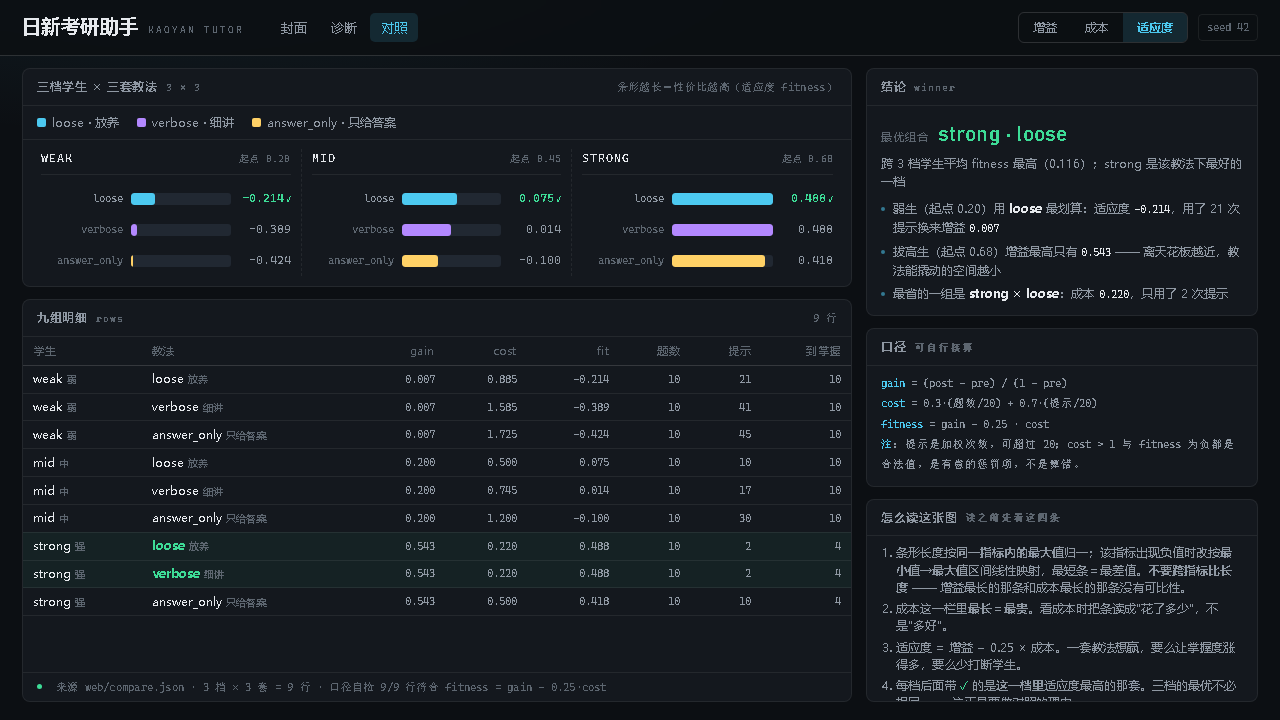
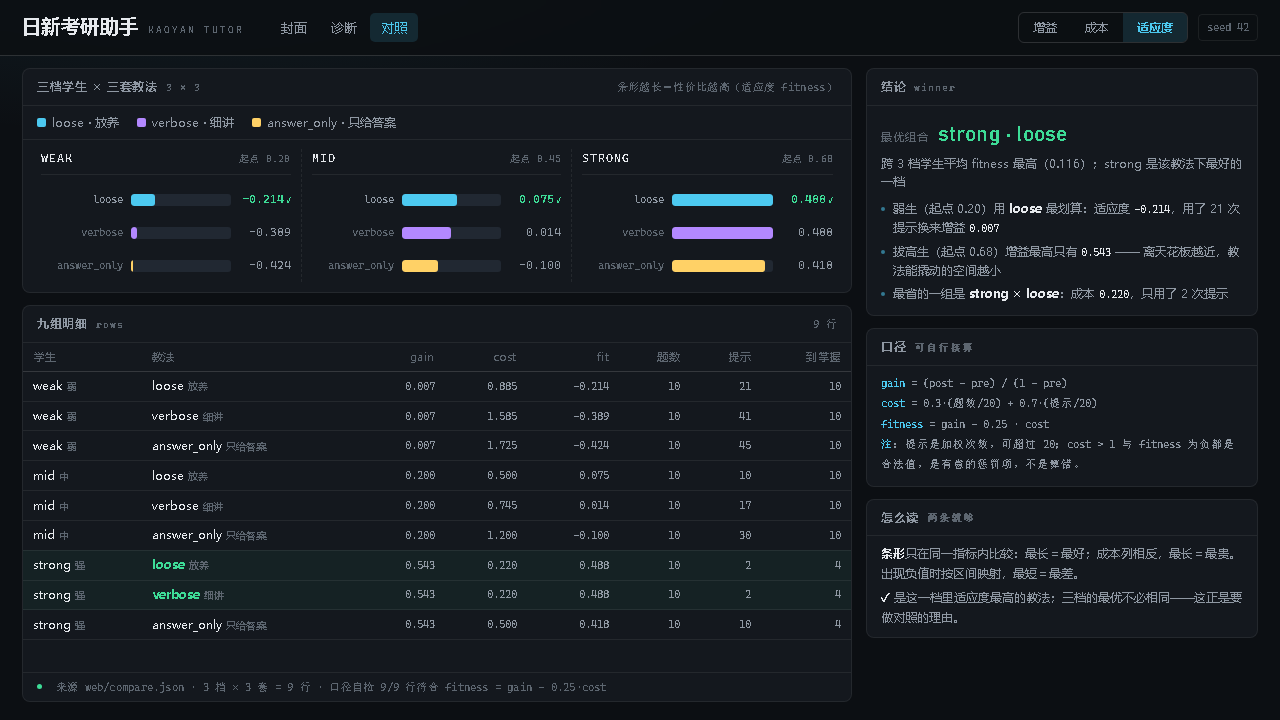
feat(tutor): 大屏适配与信息简化（对照页读图改两条、表格撑满、修日期折行）+ 交互说明｜验收：node docs/demo/check_browser.js --shots

diff --git a/web/compare.html b/web/compare.html
@@ -94,7 +94,7 @@
     margin-left:auto;letter-spacing:.02em}
 
   .row{display:grid;grid-template-columns:82px minmax(0,1fr) 52px;align-items:center;
-    gap:8px;height:31px}
+    gap:8px;height:33px}
   .row .lb{font-family:var(--font-mono);font-size:11px;color:var(--faint);
     text-align:right;white-space:nowrap;overflow:hidden;text-overflow:ellipsis}
   .row.win .lb{color:var(--muted)}
@@ -118,10 +118,13 @@
   .ins li::before{content:"";position:absolute;left:0;top:7px;width:4px;height:4px;
     border-radius:50%;background:var(--accent);opacity:.55}
   .ins b{color:var(--text);font-weight:600}
-  .ins .mono{font-family:var(--font-mono);font-size:11px;color:var(--text)}
+  .ins .mono{font-family:var(--font-mono);font-size:11px;color:var(--text);white-space:nowrap}
 
   /* ── 口径 / 读图 ── */
   .prose{padding:8px 14px 10px;font-size:12px;color:var(--muted);line-height:1.6}
+  .read2{font-size:11.5px;line-height:1.7;color:var(--muted)}
+  .read2 + .read2{margin-top:5px}
+  .read2 b{color:var(--text);font-weight:600}
   .formula{font-family:var(--font-mono);font-size:11px;color:var(--muted);line-height:1.85}
   .formula b{color:var(--accent);font-weight:400}
   .prose ol{margin:0;padding-left:15px;font-size:11.5px;line-height:1.5}
@@ -144,7 +147,7 @@
     font-weight:500;color:var(--faint);font-size:10.5px;letter-spacing:.05em;
     padding:6px 10px;border-bottom:1px solid var(--line-strong);white-space:nowrap}
   thead th:first-child,thead th:nth-child(2){text-align:left}
-  tbody td{padding:4.5px 10px;text-align:right;font-family:var(--font-mono);font-size:11px;
+  tbody td{padding:5.5px 10px;text-align:right;font-family:var(--font-mono);font-size:11px;
     color:var(--muted);border-bottom:1px solid var(--line);
     font-variant-numeric:tabular-nums;white-space:nowrap}
   tbody td:first-child,tbody td:nth-child(2){text-align:left;font-family:var(--font-body);
@@ -153,6 +156,29 @@
   tbody tr.win-row td:nth-child(2){color:var(--good);font-weight:600}
   tbody td.bad{color:var(--bad)}
   tbody td .cn{color:var(--faint);font-size:10px;margin-left:4px}
+
+  /* 投影/大屏：放大字号；明细表在面板里垂直居中，别让下方空出一大块 */
+  @media (min-width:1600px){
+    body{font-size:15px}
+    main{grid-template-columns:minmax(0,1fr) 460px;gap:18px;padding:16px 28px 22px}
+    .panel > h2{font-size:13px}
+    .legend{font-size:12.5px}
+    .sgrp-h .nm{font-size:13.5px}
+    .row{height:40px;grid-template-columns:100px minmax(0,1fr) 64px}
+    .row .lb{font-size:12.5px}
+    .row .vl{font-size:13px}
+    table{font-size:12.5px}
+    thead th{font-size:11.5px;padding:8px 12px}
+    tbody td{padding:8px 12px;font-size:12.5px}
+    tbody tr{height:58px}
+    tbody td:first-child,tbody td:nth-child(2){font-size:13px}
+    tbody td .cn{font-size:10.5px}
+    .win-name{font-size:25px}
+    .win-why,.ins li{font-size:13px}
+    .ins .mono{font-size:12px}
+    .formula{font-size:12px}
+    .read2{font-size:12.5px}
+  }
 </style>
 </head>
 <body>
@@ -235,15 +261,15 @@
       </div>
     </div>
 
-    <div class="panel" style="flex:1 1 auto">
-      <h2>怎么读这张图 <em>读之前先看这四条</em></h2>
+    <div class="panel" style="flex:0 0 auto">
+      <h2>怎么读 <em>两条就够</em></h2>
       <div class="prose">
-        <ol>
-          <li>条形长度按<b>同一指标内的最大值</b>归一；该指标出现负值时改按<b>最小值→最大值</b>区间线性映射，最短条＝最差值。<b>不要跨指标比长度</b> —— 增益最长的那条和成本最长的那条没有可比性。</li>
-          <li>成本这一栏里<b>最长＝最贵</b>。看成本时把条读成"花了多少"，不是"多好"。</li>
-          <li>适应度 = 增益 − 0.25 × 成本。一套教法想赢，要么让掌握度涨得多，要么少打断学生。</li>
-          <li>每档后面带 <span style="color:var(--good)">✓</span> 的是<b>这一档里</b>适应度最高的那套。三档的最优不必相同 —— 这正是要做对照的理由。</li>
-        </ol>
+        <div class="read2">
+          <b>条形</b>只在同一指标内比较：最长＝最好；成本列相反，最长＝最贵。出现负值时按区间映射，最短＝最差。
+        </div>
+        <div class="read2">
+          <b>✓</b> 是这一档里适应度最高的教法；三档的最优不必相同——这正是要做对照的理由。
+        </div>
       </div>
     </div>
   </section>

diff --git a/web/tutor.html b/web/tutor.html
@@ -101,7 +101,7 @@
     cursor:pointer;transition:.18s var(--ease)}
   .tutor .bubble:hover{border-left-color:#7ee0ff;background:var(--surface-3)}
   .tutor .bubble.on{border-left-color:var(--accent);box-shadow:0 0 0 1px rgba(76,201,240,.22) inset}
-  .stmt{font-size:14.5px;line-height:1.7;margin:0}
+  .stmt{font-size:15px;line-height:1.7;margin:0}
   .fmt{font-family:var(--font-mono);font-size:11px;color:var(--faint);margin-top:7px}
   .hintline{margin-top:9px;padding-top:9px;border-top:1px dashed var(--line);
     font-size:13px;color:#c9d4e0;display:flex;gap:8px}
@@ -129,18 +129,18 @@
   .why-grid{display:grid;grid-template-columns:auto 1fr;gap:7px 12px;align-items:baseline}
   .why-grid dt{font-family:var(--font-mono);font-size:10.5px;color:var(--faint);
     letter-spacing:.05em;white-space:nowrap}
-  .why-grid dd{margin:0;font-size:12.5px}
+  .why-grid dd{margin:0;font-size:13px}
   .why-grid dd .num{font-family:var(--font-mono);font-weight:600;color:var(--accent)}
   .memchips{display:flex;flex-wrap:wrap;gap:5px;margin-top:3px}
   .memchips span{font-family:var(--font-mono);font-size:10px;color:var(--muted);
     background:var(--surface-3);border-radius:3px;padding:2px 6px}
 
   /* ── 记忆 / 复习 ── */
-  .mem{border-left:2px solid var(--line-strong);padding:2px 0 2px 11px;margin-bottom:11px;
+  .mem{border-left:2px solid var(--line-strong);padding:2px 0 2px 11px;margin-bottom:13px;
     cursor:pointer;position:relative}
   .mem:hover{border-left-color:var(--accent)}
   .mem .t{font-family:var(--font-mono);font-size:10px;color:var(--faint)}
-  .mem .txt{font-size:12.5px;margin:2px 0 3px}
+  .mem .txt{font-size:13px;margin:2px 0 3px}
   .mem .conf{font-family:var(--font-mono);font-size:10px;color:var(--faint)}
   .mem .src{display:none;margin-top:6px;flex-wrap:wrap;gap:5px}
   .mem.open .src{display:flex}
@@ -149,8 +149,15 @@
   .due{display:flex;align-items:center;gap:9px;padding:7px 0;border-bottom:1px solid var(--line)}
   .due:last-child{border-bottom:0}
   .due .k{font-size:12.5px;font-weight:600;white-space:nowrap;flex:0 0 auto}
-  .due .d{margin-left:auto;font-family:var(--font-mono);font-size:11px;color:var(--warn)}
+  .due .d{margin-left:auto;font-family:var(--font-mono);font-size:11px;color:var(--warn);
+    white-space:nowrap}
   .due .r{font-size:10.5px;color:var(--faint);flex-basis:100%}
+
+  /* ── 可点击提示条（回放时显示；实时模式让位给输入区） ── */
+  .clickhint{flex:0 0 auto;padding:7px 16px;border-top:1px solid var(--line);
+    font-family:var(--font-mono);font-size:11px;color:var(--faint);letter-spacing:.02em;
+    background:var(--surface)}
+  body.live .clickhint{display:none}
 
   /* ── 实时输入 ── */
   .composer{flex:0 0 auto;border-top:1px solid var(--line-strong);padding:10px 14px 12px;
@@ -178,6 +185,26 @@
     color:var(--warn)}
   #notice.on{display:block}
   #notice b{color:#fff}
+
+  /* 投影/大屏：整体放大一档，避免 1920 下内容缩在左上角 */
+  @media (min-width:1600px){
+    body{font-size:15px}
+    main{grid-template-columns:300px minmax(0,1fr) 380px;gap:18px;padding:18px 28px 24px}
+    .brand h1{font-size:21px}
+    .panel > h2{font-size:13px}
+    .stmt{font-size:16.5px}
+    .kc .name,.kc .val{font-size:14px}
+    .kc .meta{font-size:11.5px}
+    .mem .txt{font-size:14px}
+    .mem .t,.mem .conf,.mem .src span{font-size:11px}
+    .due .k{font-size:14px}
+    .due .d{font-size:12px}
+    .due .r{font-size:11.5px}
+    .why-grid dt{font-size:11.5px}
+    .why-grid dd{font-size:14px}
+    .clickhint{font-size:12px}
+    #answer{font-size:15px}
+  }
 </style>
 </head>
 <body>
@@ -221,6 +248,7 @@
     <section class="panel" style="flex:1 1 auto">
       <h2><em>03</em>诊断对话<span class="tip" id="turn-count"></span></h2>
       <div class="body" id="turns"></div>
+      <div class="clickhint">点题面 → 看理由　·　点知识点 → 过滤对话　·　点记忆 → 看来源</div>
       <div class="composer">
         <div class="line">
           <input id="answer" placeholder="输入答案（整数 / 分数 / 小数）" autocomplete="off">

diff --git a/web/cover.html b/web/cover.html
@@ -92,6 +92,7 @@
     font-weight:600}
   .btn.pri:hover{background:rgba(76,201,240,.2)}
   .btn .ar{font-family:var(--font-mono);font-size:12px;opacity:.8}
+  .try{margin:14px 0 0;font-family:var(--font-mono);font-size:11.5px;color:var(--faint)}
 
   /* ── 底部信任条 ── */
   footer{flex:0 0 auto;padding:12px 22px 16px;border-top:1px solid var(--line);
@@ -105,6 +106,22 @@
     .nums{grid-template-columns:1fr;gap:10px;margin-top:22px}
     main{padding-top:16px}
     h2.hero{font-size:30px}
+  }
+
+  /* 投影/大屏：按视口放大字号与版心，不要让内容缩在左上角 */
+  @media (min-width:1600px){
+    main,footer{max-width:1480px}
+    h2.hero{font-size:clamp(46px,4.6vw,70px)}
+    .lead{font-size:19px;max-width:900px}
+    .kicker{font-size:12.5px}
+    .nums{margin-top:38px;gap:18px}
+    .num{padding:20px 22px 18px}
+    .num .v{font-size:clamp(42px,3.4vw,54px)}
+    .num .k{font-size:14px}
+    .num .s{font-size:11.5px}
+    .cta{margin-top:32px;gap:14px}
+    .btn{font-size:15px;padding:13px 24px}
+    .try{font-size:13px}
   }
 </style>
 </head>
@@ -160,6 +177,8 @@
     <a class="btn pri" href="tutor.html">看一次诊断 <span class="ar">→</span></a>
     <a class="btn" href="compare.html">看 9 组对照 <span class="ar">→</span></a>
   </div>
+
+  <p class="try">诊断页里，题面、知识点、记忆条目都能点；切到「实时」，可以直接打一个答案。</p>
 </main>
 
 <footer>

diff --git a/docs/demo/交互说明.md b/docs/demo/交互说明.md
@@ -1,0 +1,46 @@
+# 三页交互说明（演示时照着点）
+
+> 打开方式：`python app/serve.py --port 8123` 后访问 `http://127.0.0.1:8123/cover.html`
+> 直接双击 `file://` 也能开，但读不到 `tutor.json`，会挂"内联示例数据"黄条——正式演示/截图请不要双击。
+
+## 一、三个入口（顶栏，三页都有）
+
+`封面` ↔ `诊断` ↔ `对照`，当前页高亮。任何一页都能直接跳，不会丢上下文。
+
+## 二、诊断页：四处可点
+
+| 点哪里 | 会发生什么 | 讲给观众的一句话 |
+|---|---|---|
+| 对话里的**题面气泡** | 右侧「为什么是这道题」展开，显示**掌握度 / 题目难度 / 上次错因**三个数字 + 相关记忆 | "它每出一道题，都能说出三个数——不是随机挑的。" |
+| 左侧**知识点条**（定积分/反常积分/行列式） | 高亮该条，中间对话流只留下这个知识点的问答；再点一次取消 | "点一个知识点，整段对话按它过滤。" |
+| 左侧**记忆条目** | 展开 `src`，列出这条记忆来自哪几次答题（`evt_xxxx`） | "每条记忆都有证据链，能追到原始事件。" |
+| 顶部 **回放 / 实时** 开关 | 回放=读预置的 8 轮对话；实时=出现输入框，可以真的打答案 | "它不是一个视频，你可以上手答一题。" |
+
+### 实时模式（切到「实时」后）
+
+- 输入框打答案（整数 / 分数 / 小数），按 **Enter** 或点「提交」
+- 四个按钮：**我不会**（给到答案级提示）、**再提示一点**（L0→L4 逐级升）、**为什么给我这道题**（刷新理由面板）、**重置**（回到第 1 题、掌握度归 20%）
+- 连交 5 次错答案，提示会一级一级升到"直接给答案"；答对后掌握度条会跳、自动换下一题
+- **断服务/接口不可用时会自动切回回放并弹黄条**，不会白屏
+
+## 三、对照页：两个交互
+
+| 点哪里 | 会发生什么 |
+|---|---|
+| 顶部 **增益 / 成本 / 适应度** | 3×3 条形图按该指标重画（条形长度变），右上角提示语跟着换 |
+| 读表格 | 9 行明细，`✓` 标出每档学生的最优教法；底部有一行「口径自检 9/9」说明这九个数算得通 |
+
+## 四、封面：两个按钮
+
+- 「看一次诊断」→ 直接进诊断页
+- 「看 9 组对照」→ 直接进对照页
+
+## 五、演示动线建议（90 秒版）
+
+封面讲三个数字 → 诊断页点一条题面（出三个数）→ 点一个知识点（过滤）→ 点一条记忆（看 src）→ 切实时、交两个错答看提示升级、交一个对答看掌握度跳 → 重置 → 对照页切三个指标 → 收尾。
+
+## 六、三个"别踩"
+
+1. 别用 `file://` 演示真数据（见开头）。
+2. 实时模式下输入框才有；回放模式没有输入框是正常的。
+3. 点题面没反应？先确认点的是**题目气泡**（左边那条带题目文字的），不是学生答案气泡。
